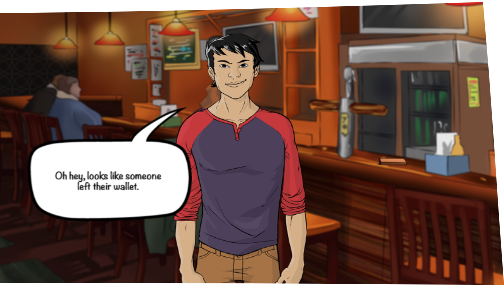
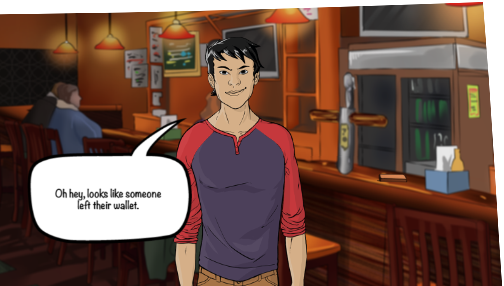
added new scene images to result screen adjusted some text in page5_1.js, page7_1.js, and page8_3.js

diff --git a/src/m_play/gnovel/static/gnovel/js/mplay/page7_1.js b/src/m_play/gnovel/static/gnovel/js/mplay/page7_1.js
@@ -35,7 +35,7 @@ var MPLAY = MPLAY || {};
 		// 2 means You did use the test and you got caught. Professor Sweeny did not pursue academic integrity violations  (integrity > 0)
 		// 3 means You did use the test and You got caught. you both receive a 0 on the final and fail the class.
 		// 4 means You didn’t use the test and Ryan used the test even though you didn’t. He got caught and failed the final and the class.
-		// 5 means You didn’t use the test and Ryan used the test even though you didn’t. 
+		// 5 means You didn’t use the test and Ryan used the test even though you didn’t.
 		// 		When Ryan was questioned, he revealed that you had had access to the test too and didn’t report it.
 		this._usingTestStatus = 0;
 
@@ -99,7 +99,7 @@ var MPLAY = MPLAY || {};
 			// 	page.getOwner().getSoundManager().play("Hey-Ryan-n");
 			// }},
 			// {type: "play", audio: "Hey-Ryan-n"},
-			{type: "dialog", speaker: this._ryan, text: "By the way, my brother took this class last semester, and he gave me some of his stuff from the class, nothing graded."},
+			{type: "dialog", speaker: this._ryan, text: "Hey, my brother took this class last semester, and he gave me some of his stuff from the class, nothing graded."},
 			{type: "dialog", speaker: this._ryan, text: "I have a blank copy of the actual exam from last year.  Want to take a look?"},
 			{type: "jump", condition: true, goTrue: "#showpriya", goFalse: "#showpriya"},
 
@@ -121,7 +121,7 @@ var MPLAY = MPLAY || {};
 			{type: "dialog", speaker: this._priya, text: "Hey you two. Studying for our favorite class? What are you looking at there?"},
 
 			{type: "show", img: ryan, position: "right", waitUntilShown: false},
-			{type: "dialog", speaker: this._ryan, text: "Oh it's a practice test for the final."},
+			{type: "dialog", speaker: this._ryan, text: "Oh, it's a practice test for the final."},
 
 			{type: "show", img: priya, expression: "thoughtful", position: "left", waitUntilShown: false},
 			{type: "dialog", speaker: this._priya, text: "Really? I don't remember Sweeney sending one out. I just went to his office hours too."},
@@ -180,7 +180,7 @@ var MPLAY = MPLAY || {};
 			// holdoff & good integrity
 			{type: "nothing", label: "good_integrity"},
 			{type: "custom", func: function(page) {
-				this._usingTestStatus = 0;				
+				this._usingTestStatus = 0;
 			}},
 			{type: "dialog", speaker: this._ryan, text: "I mean, if you're going to get panicky over this, I guess we don't really need to use it."},
 			{type: "dialog", speaker: this._ryan, text: "I really don't see how it's a big deal though."},
@@ -191,7 +191,7 @@ var MPLAY = MPLAY || {};
 			// holdoff & bad integrity
 			{type: "nothing", label: "poor_integrity"},
 			{type: "custom", func: function(page) {
-				this._usingTestStatus = 1;				
+				this._usingTestStatus = 1;
 			}},
 			{type: "show", img: ryan, position: "right", expression: "angry", waitUntilShown: false},
 			{type: "dialog", speaker: this._ryan, text: "Don't be stupid, it's not a thing! Whatever, I'm going to use it."},
@@ -209,14 +209,14 @@ var MPLAY = MPLAY || {};
 			// dontsay and good integrity
 			{type: "nothing", label: "go9c"},
 			{type: "custom", func: function(page) {
-				this._usingTestStatus = 2;				
+				this._usingTestStatus = 2;
 			}},
 			{type: "goto", page: "scene 9.c"},
 
 			// dont say and bad integrity
 			{type: "nothing", label: "go9d"},
 			{type: "custom", func: function(page) {
-				this._usingTestStatus = 3;				
+				this._usingTestStatus = 3;
 			}},
 			{type: "goto", page: "scene 9.d"},
 
@@ -231,7 +231,7 @@ var MPLAY = MPLAY || {};
 			// decline and good integrity
 			{type: "nothing", label: "go9e"},
 			{type: "custom", func: function(page) {
-				this._usingTestStatus = 4;				
+				this._usingTestStatus = 4;
 			}},
 			{type: "goto", page: "scene 9.e"},
 

diff --git a/src/m_play/gnovel/static/gnovel/js/mplay/page5_1.js b/src/m_play/gnovel/static/gnovel/js/mplay/page5_1.js
@@ -154,7 +154,7 @@ var MPLAY = MPLAY || {};
 					},
 				});
 			}},
-			/*{type: "show", img: ryan, position: "right"},
+			{type: "show", img: ryan, position: "right"},
 			{type: "dialog", speaker: "Ryan", text: "We all set, Cat?"},
 			{type: "show", img: cat, expression: "sad", position: "left", waitUntilShown: false},
 			{type: "dialog", speaker: "Cat", text: "Uh oh… I think we have a problem."},
@@ -166,7 +166,7 @@ var MPLAY = MPLAY || {};
 			{type: "dialog", speaker: "Ryan", text: "I’m sure Priya didn’t realize. It's common practice to use codeHub.  Did she cite it?"},
 			{type: "dialog", speaker: "Cat", text: "No, and even if she did cite it, we can't use it."},
 			{type: "show", img: cat, expression: "angry", position: "left", waitUntilShown: false},
-			{type: "dialog", speaker: "Cat", text: "No outside sources on this assignment, remember?"},*/
+			{type: "dialog", speaker: "Cat", text: "No outside sources on this assignment, remember?"},
 			{type: "show", img: cat, expression: "sad", position: "left", waitUntilShown: false},
 			{type: "dialog", speaker: "Cat", text: "What should we do, we have to submit the project in 2 hours!"},
 			{type: "choices",
@@ -174,30 +174,30 @@ var MPLAY = MPLAY || {};
 						[{text: "Well, let's just ask her about it.",
 							integrityScore: 1,
 							relationship: [{name: this._ryan, score: -1}, {name: this._cat, score:1}],
-							go: "#ask", 
+							go: "#ask",
 							onChoose: function(page) {
 								page._priyaWorkChoice = 0;
 
-								page._plagiarismData.relationship.cat = 1;								
+								page._plagiarismData.relationship.cat = 1;
 							}},
 						{text: "We only have a few hours. Let’s divide and conquer. Redo her work.",
 							integrityScore: 0,
 							relationship: [{name: this._priya, score: 1, text:"Priya will feel good about that"}],
-							go: "#redo", 
+							go: "#redo",
 							onChoose: function(page) {
 								page._priyaWorkChoice = 1;
 
-								page._plagiarismData.relationship.priya = 1;	
+								page._plagiarismData.relationship.priya = 1;
 							}},
 						{text: "Let’s just submit it, I’m sure it’s fine.",
 							integrityScore: -1,
 							relationship: [{name:this._cat, score:-1},{name:this._ryan, score: 1}],
-							go: "#submit", 
+							go: "#submit",
 							onChoose: function(page) {
 								page._priyaWorkChoice = 2;
 
-								page._plagiarismData.relationship.ryan = 1;	
-								page._plagiarismData.relationship.cat = -1;	
+								page._plagiarismData.relationship.ryan = 1;
+								page._plagiarismData.relationship.cat = -1;
 							}}],
 					//seconds: 10,
 					//responses: [{text:"Hello?"},{text: "Don't just leave me hanging."}],

diff --git a/src/m_play/gnovel/templates/gnovel/result.html b/src/m_play/gnovel/templates/gnovel/result.html
@@ -37,7 +37,7 @@
 									<div class="scene1">
 										<div class="bgImage"></div>
 										<div style="width: 506px; height: 288px; position: absolute; top: 10px">
-											<img src="{% static 'gnovel/res/result/frameimgdemo.png' %}" height="287px" width="506px">
+											<img src="{% static 'gnovel/res/result/bar_scene1_result.png' %}" height="287px" width="506px">
 										</div>
 										<div style="height:100px; width:100px; position:absolute;left:500px">
 											<img src="{{phone_rel_ryan_image}}" height="100px" width = "100px">
@@ -66,7 +66,7 @@
 									<div class="scene1">
 										<div class="bgImage"></div>
 										<div style="width: 506px; height: 288px; position: absolute; top: 10px">
-											<img src="{% static 'gnovel/res/result/frameimgdemo.png' %}" height="287px" width="506px">
+											<img src="{% static 'gnovel/res/result/library_scene2_result.png' %}" height="287px" width="506px">
 										</div>
 										<div style="height:100px; width:100px; position:absolute;left:500px">
 											<img src="{{unauthorized_assistance_rel_ryan_image}}" height="100px" width = "100px">
@@ -95,7 +95,7 @@
 									<div class="scene1">
 										<div class="bgImage"></div>
 										<div style="width: 506px; height: 288px; position: absolute; top: 10px">
-											<img src="{% static 'gnovel/res/result/frameimgdemo.png' %}" height="287px" width="506px">
+											<img src="{% static 'gnovel/res/result/library_scene6_result.png' %}" height="287px" width="506px">
 										</div>
 										<div style="height:100px; width:100px; position:absolute;left:500px">
 											<img src="{{plagiarism_rel_ryan_image}}" height="100px" width = "100px">
@@ -124,7 +124,7 @@
 									<div class="scene1">
 										<div class="bgImage"></div>
 										<div style="width: 506px; height: 288px; position: absolute; top: 10px">
-											<img src="{% static 'gnovel/res/result/frameimgdemo.png' %}" height="287px" width="506px">
+											<img src="{% static 'gnovel/res/result/library_scene8_result.png' %}" height="287px" width="506px">
 										</div>
 										<div style="height:100px; width:100px; position:absolute;left:500px">
 											<img src="{{using_test_rel_ryan_image}}" height="100px" width = "100px">

diff --git a/src/m_play/gnovel/static/gnovel/js/mplay/page8_3.js b/src/m_play/gnovel/static/gnovel/js/mplay/page8_3.js
@@ -79,7 +79,7 @@ var MPLAY = MPLAY || {};
 			{type: "jump", condition: true, goTrue: "#policy", goFalse: "#policy"},
 
 			{type: "nothing", label:"policy"},
-			{type: "dialog", speaker: this._professor, text: "Potential consequences of an academic violation are failing the exam, the course and possible expulsion from your graduate programs."},
+			{type: "dialog", speaker: this._professor, text: "Potential consequences of an academic violation are failing the exam, the course and possible expulsion from your programs."},
 			{type: "dialog", speaker: this._professor, text: "There is an appeals process as well, but before we go down that road, I'd like to hear from you."},
 			{type: "show", img: professor, position: "center"},
 			{type: "dialog", speaker: this._professor, text: "There is a quote from Andrew Carnegie I always use."},
